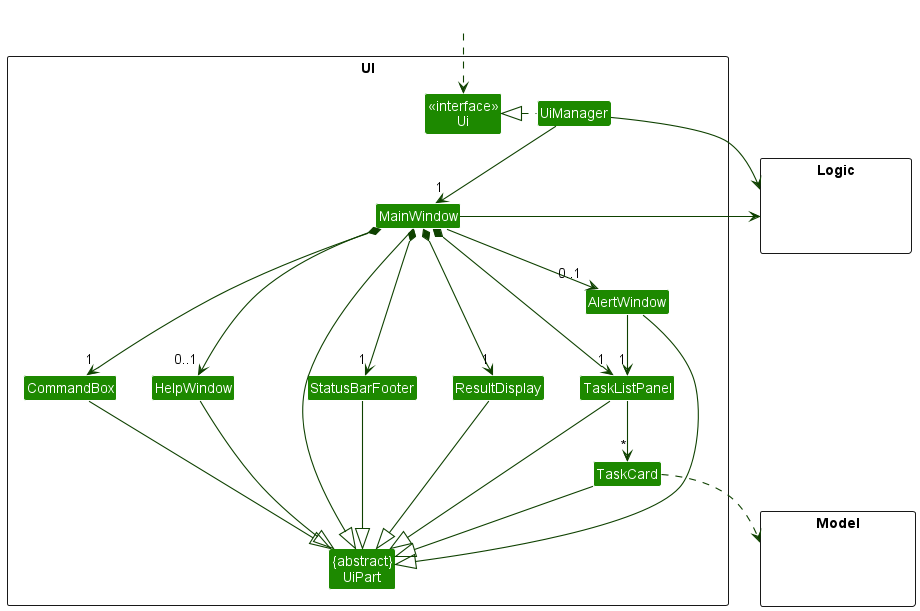
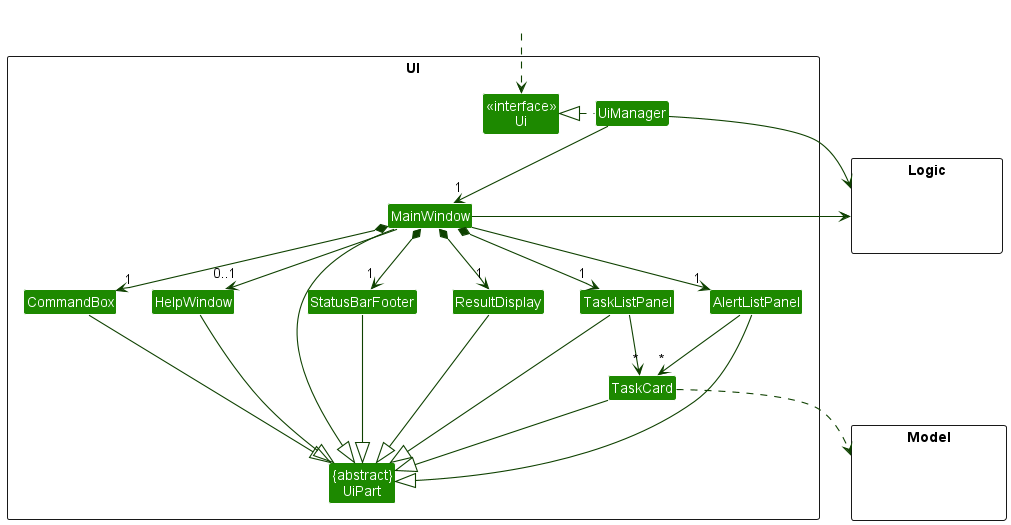
update UGDG to reflect alert changes

diff --git a/docs/UserGuide.md b/docs/UserGuide.md
@@ -306,8 +306,8 @@ Format: `stats`
 
 :man_technologist: Beep! Beep! Well, not really, but alert is here to warn you about tasks which are due soon!
 
-Displays in another window the tasks that fall within the window specified. If not supplied, assumed to be 24 hours.
-On opening of app, the **alert window** will open to show **Tasks** which have deadlines within the **latest** window specified.
+Displays in the tasks that fall within the window specified on the right panel. If not supplied, assumed to be 24 hours.
+On opening of app, the **alert panel** will open to show **Tasks** which have deadlines within the **latest** window specified.
 Have to specify `ALERT WINDOW` in hours and only integers.
 
 Examples:
